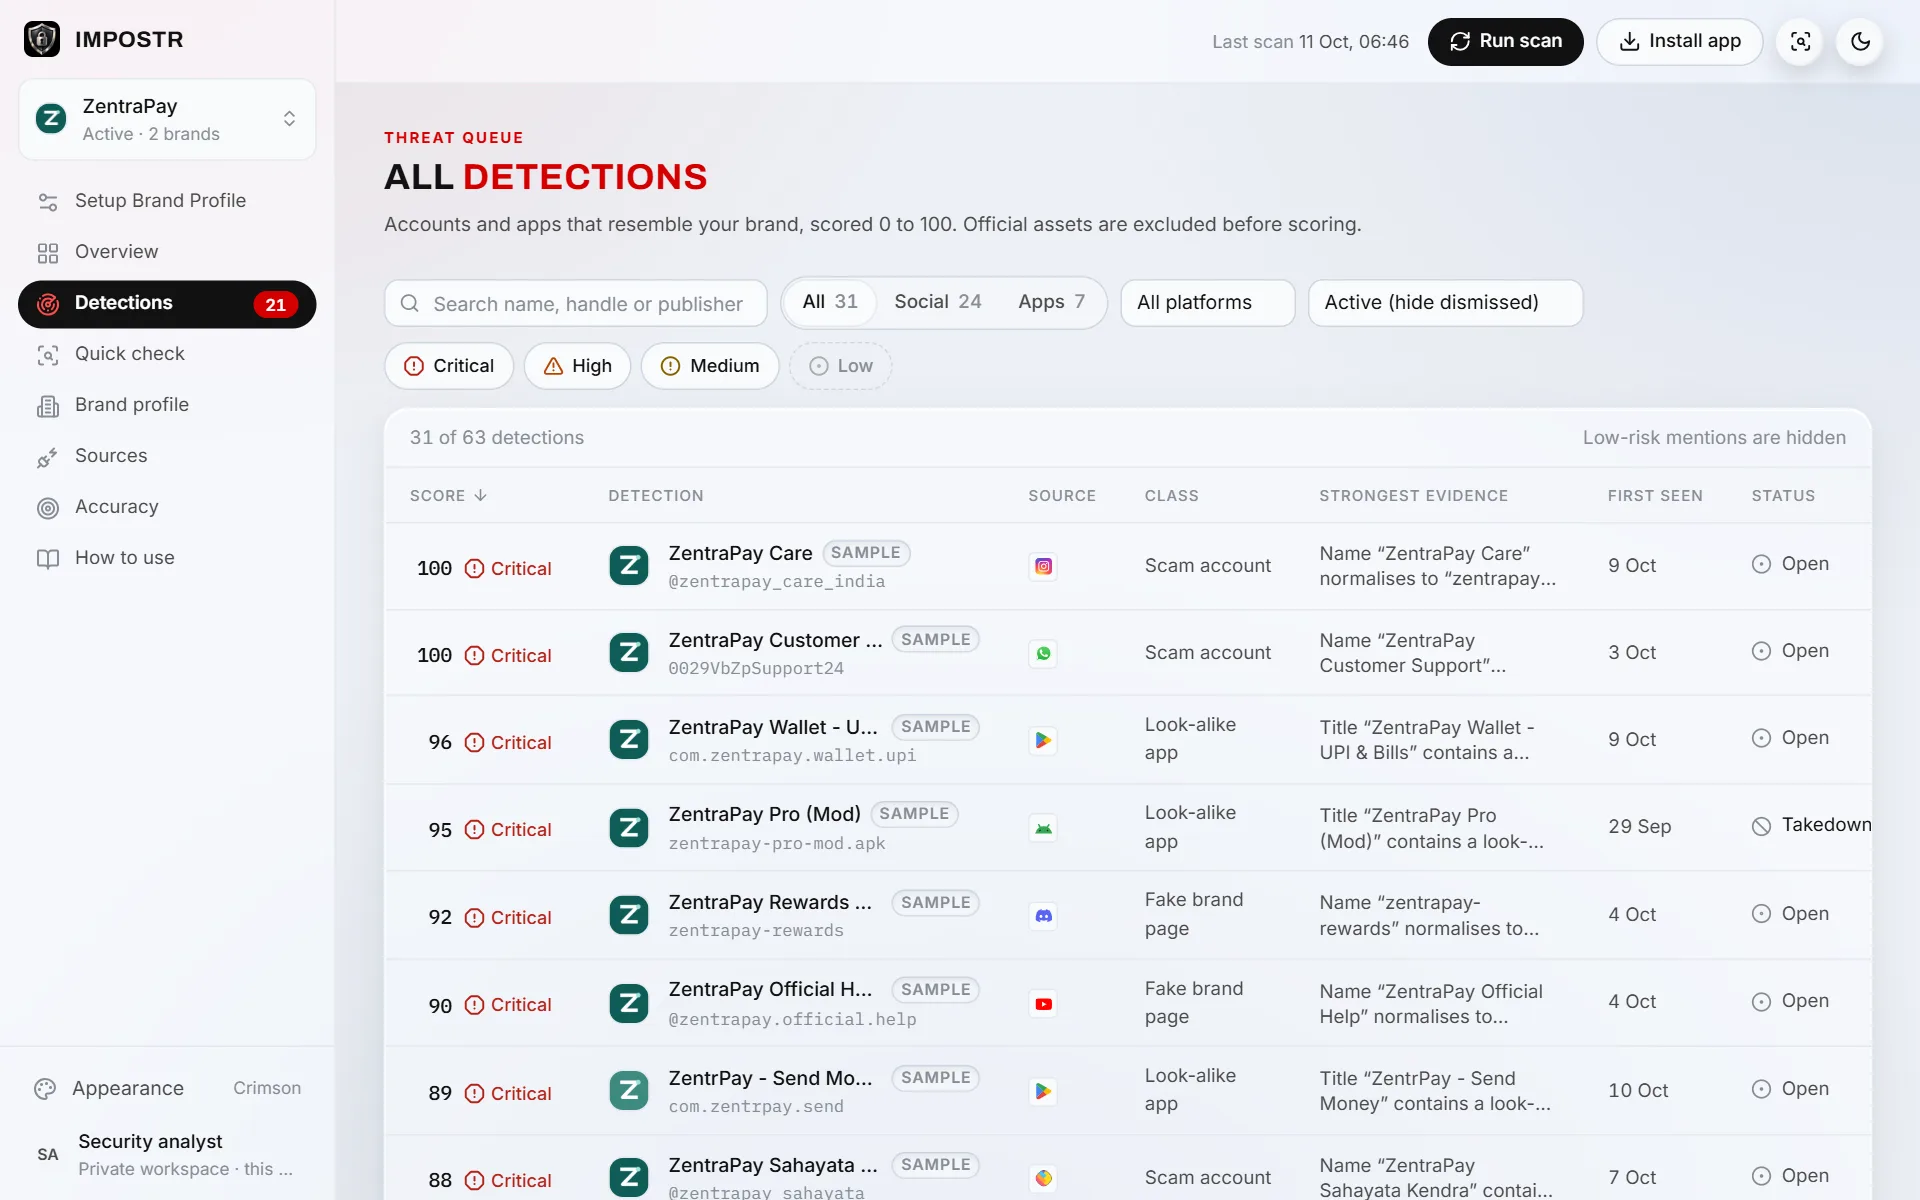
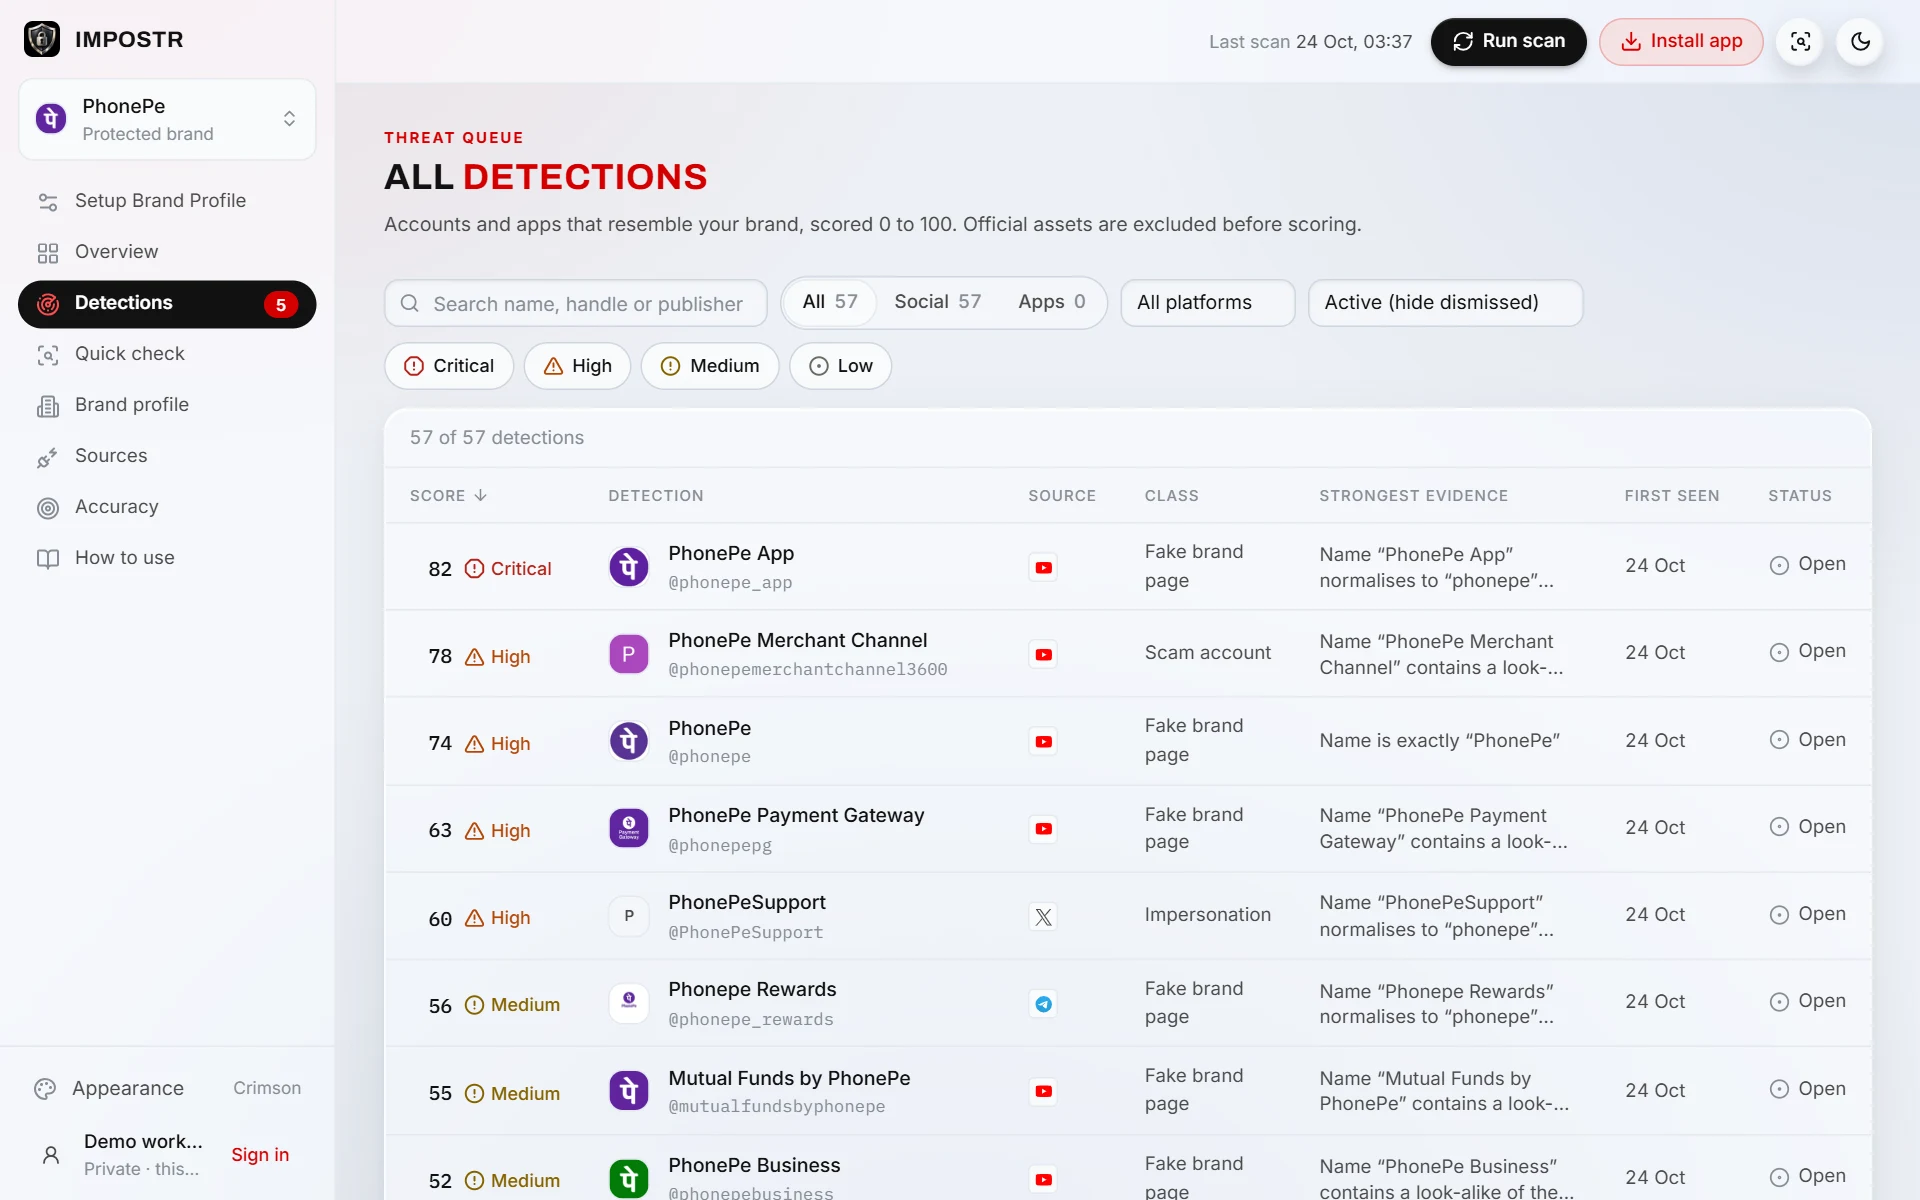
How to use: new screenshots, a takedown letter slide, current architecture
- All guide screenshots retaken from the current app (PhonePe, live data,
  17 sources), plus a new slide for the takedown letter.
- Overview, Detections, Setup and Quick check slides describe what the
  pages do now: the five severity cards, Last scan, Open links, all
  severities on by default, scans only when started.
- Architecture: Serper fallback and 12-hour shared results, scans on
  request, takedown letters, company accounts, twelve tables.

diff --git a/frontend/src/components/guide-slides.tsx b/frontend/src/components/guide-slides.tsx
@@ -9,6 +9,7 @@ import {
   ChevronLeft,
   ChevronRight,
   CircleHelp,
+  FileText,
   Gauge,
   LayoutGrid,
   ListChecks,
@@ -247,7 +248,8 @@ const SLIDES: Slide[] = [
     body: (
       <>
         <P>
-          Check the counts, then click <b>Save and run scan</b>. Everything you added goes on the allowlist, the scan starts, and you land on Overview.
+          Check the counts, then click <b>Save and run scan</b>. Everything you added goes on the allowlist and the scan starts; the button reads
+          Scanning until it finishes, then Overview opens with the results.
         </P>
         <P>The table on the right of every step explains the score bands.</P>
       </>
@@ -263,18 +265,18 @@ const SLIDES: Slide[] = [
       <>
         <Points
           items={[
-            ["Open detections", "Medium, High and Critical items still open, and how many candidates the last scan looked at."],
-            ["Critical · High", "Items scoring 80 or more (takedown recommended) and 60 to 79 (review today). The arrow on a card opens the detection list."],
-            ["Official assets flagged", "Should always be 0. It counts official assets that were wrongly scored; the allowlist size is shown below it."],
-            ["New detections", "Medium and above by the day they were first seen, over 14 days. Red is Critical, orange High, amber Medium. Hover a bar for its counts."],
+            ["Found · Critical · High · Medium · Low", "Everything the scans found, and the count at each severity: 80 or more (takedown recommended), 60 to 79 (review today), 40 to 59 (look-alike) and 39 or less (mentions, not flagged). The arrow on a card opens the detection list."],
+            ["Last scan", "Sources searched live, accounts and apps checked, official assets recognised, and official assets flagged, which should always be 0. Below it, how many results each source returned."],
+            ["New detections", "Every severity by the day it was first seen, over 14 days. Hover a bar for its counts."],
             ["By source", "The 8 sources with the most Critical and flagged items, with a health tick. A failing source always appears here."],
-            ["Needs attention", "Open Critical and High detections, highest score first. Click one to review it."],
             ["Official app notice", "If a scan finds an app verified as yours that is not in the profile yet, a notice offers Review and add."],
+            ["Needs attention", "Open Critical and High detections, highest score first. Click one to review it."],
+            ["All findings", "Every finding, with a filter for each severity. Open (blue, underlined) opens the real account or app on its platform in a new tab."],
           ]}
         />
         <P>
-          Click <b>Run scan</b> in the top bar at any time to search all sources again. While it runs the button reads Scanning and the page updates by
-          itself when it finishes.
+          A new workspace has no scan yet. Click <b>Run scan</b> in the top bar to search all sources; scans run only when you start one. While it runs
+          the button reads Scanning and the page updates by itself when it finishes.
         </P>
       </>
     ),
@@ -293,8 +295,9 @@ const SLIDES: Slide[] = [
             ["All · Social · Apps", "Accounts and pages, apps, or both. The counts follow the severity filter."],
             ["Platform", "One platform at a time, for example Instagram or Google Play."],
             ["Status", "Active hides items marked false positive or official. You can show one status, such as Confirmed."],
-            ["Severity chips", "Critical, High and Medium are on by default. Low-risk mentions (39 and below) are hidden; click Low to show them."],
-            ["Sort", "Click the Risk or First seen column heading to sort. Click a row to open it."],
+            ["Severity chips", "Critical, High, Medium and Low are all on by default. Click one to hide it, for example to see Critical only. Reset restores every filter."],
+            ["Sort", "Click the Score or First seen column heading to sort."],
+            ["Open a detection", "Click a row, for example its Status, to open the detection page. Open (blue, underlined) at the end of the row opens the real account or app instead."],
           ]}
         />
         <P>
@@ -308,14 +311,15 @@ const SLIDES: Slide[] = [
     section: "A detection, step by step",
     icon: ListChecks,
     title: "Why an item was flagged",
-    shots: [{ src: "detection-detail", alt: "Detection page for a scam account", caption: "A scam account: score, reasons and details" }],
+    shots: [{ src: "detection-detail", alt: "Detection page for a fake PhonePe channel", caption: "A fake brand page scored 82, Critical: score, reasons and details" }],
     body: (
       <Points
         items={[
           ["Header", "Name, handle, platform, the kind of threat (Scam account, Look-alike app, Fake brand page, Impersonation)."],
           ["Score", "0 to 100 with its severity and what to do: takedown recommended, review today, or look-alike."],
           ["Why this was flagged", "Every finding in plain words, such as a copied logo, a request for an OTP or a link to a look-alike domain."],
-          ["Compared with the official asset", "When there is an official counterpart, both are shown side by side."],
+          ["Evidence checks", "The identity checks that ran first, then the similarity of name, picture and description."],
+          ["Compared with the official asset", "When there is an official counterpart, both are shown side by side: picture, name, handle, bio."],
           ["Details, links, activity", "Followers or installs, first and last seen, the links in the profile, and every status change."],
         ]}
       />
@@ -347,7 +351,7 @@ const SLIDES: Slide[] = [
         head={["Button", "What it does"]}
         rows={[
           ["Confirm threat", "Marks it Confirmed. Request takedown then appears."],
-          ["Request takedown", "Marks it Takedown requested and opens a ready-made takedown letter with the evidence, a Copy letter button and a link to the platform's report form. Nothing is sent for you."],
+          ["Request takedown", "Marks it Takedown requested and opens the takedown letter (next slide). Nothing is sent for you."],
           ["Takedown letter", "Opens the letter again later. Each copy is recorded in the Activity log."],
           ["False positive", "Marks it as not a threat and lowers its score by 15 points. It leaves the Active view."],
           ["It's official", "Adds it to the brand's allowlist. It is never flagged again; Undo removes it."],
@@ -355,6 +359,28 @@ const SLIDES: Slide[] = [
           ["Evidence", "Downloads the full record (signals, reasons, checks, score) as a JSON file."],
         ]}
       />
+    ),
+  },
+  {
+    section: "A detection, step by step",
+    icon: FileText,
+    title: "The takedown letter",
+    shots: [{ src: "takedown-letter", alt: "Takedown letter for a fake YouTube channel", caption: "A takedown letter, filled in from the detection" }],
+    body: (
+      <>
+        <P>
+          Confirm threat, then Request takedown, and the letter opens. It is addressed to the platform and filled in from the detection: the fake&apos;s
+          name, handle and link, the brand&apos;s official account on that platform, the top reasons and the score.
+        </P>
+        <Points
+          items={[
+            ["Edit letter", "Edit any line in place: your name, title and contact details go in the bracketed fields. Reset template restores the original."],
+            ["Copy letter", "Copies the letter; each copy is recorded in the detection's Activity."],
+            ["Open report form", "The platform's own impersonation or trademark form (a help page where the platform has no form), in a new tab."],
+          ]}
+        />
+        <P>IMPOSTR never sends anything on its own: you paste the letter into the form and submit it, and attach the Evidence file if the form allows.</P>
+      </>
     ),
   },
   {
@@ -368,7 +394,7 @@ const SLIDES: Slide[] = [
         items={[
           <>Pick platforms, or leave All platforms selected (17 platforms).</>,
           <>
-            Type a brand name (<Code>PhonePe</Code>), a handle (<Code>z3ntra.pay_official</Code>) or paste an official link (
+            Type a brand name (<Code>PhonePe</Code>), a handle (<Code>ph0nepe_support</Code>) or paste an official link (
             <Code>t.me/phonepe_rewards</Code>, a Play Store or App Store URL), then press Enter. The Try chips fill in examples.
           </>,
           <>Results compare against the registered brand the query matches. Nothing is saved to Detections.</>,

diff --git a/frontend/src/components/architecture.tsx b/frontend/src/components/architecture.tsx
@@ -85,8 +85,9 @@ function Diagram() {
             <b className="text-ink">Social, official APIs:</b> Telegram (public t.me pages), YouTube Data API
           </Li>
           <Li>
-            <b className="text-ink">Social, web search:</b> Instagram, Facebook, X, LinkedIn, Threads, Pinterest, Quora, Snapchat, ShareChat, WhatsApp, Moj and Josh public pages, through the Brave Search API; Discord invites checked with Discord&apos;s invite lookup
+            <b className="text-ink">Social, web search:</b> Instagram, Facebook, X, LinkedIn, Threads, Pinterest, Quora, Snapchat, ShareChat, WhatsApp, Moj and Josh public pages, through the Brave Search API, with Serper (Google results) taking over automatically when Brave fails or runs out of credit; Discord invites checked with Discord&apos;s invite lookup
           </Li>
+          <Li>Web search and YouTube results are shared by every workspace for 12 hours, so repeated searches do not use up API credit</Li>
           <Li>
             <b className="text-ink">Not connected:</b> a source whose API key is not set is shown as not connected, never filled with made-up results. No sample data anywhere.
           </Li>
@@ -108,7 +109,7 @@ function Diagram() {
       <div className="grid items-stretch gap-0 lg:grid-cols-[minmax(0,0.9fr)_auto_minmax(0,1.05fr)_auto_minmax(0,1.35fr)_auto_minmax(0,0.85fr)]">
         <Box tone="ui" icon={ScanSearch} kicker="Step 1" title="Collect">
           <Li>
-            <b className="text-ink">Scan:</b> every source, results saved
+            <b className="text-ink">Scan:</b> every source, results saved; runs when the user presses Run scan (or Save and run scan)
           </Li>
           <Li>
             <b className="text-ink">Quick check:</b> chosen platforms, results shown and not saved
@@ -162,13 +163,14 @@ function Diagram() {
       <div className="grid gap-3 lg:grid-cols-2">
         <Box tone="ui" icon={MonitorSmartphone} kicker="Interface" title="What the analyst sees">
           <Li>Overview, Detections, Quick check, Brand profile, Sources and Accuracy, all read from storage</Li>
-          <Li>Actions (confirm, takedown, false positive, it&apos;s official) are written back to the database</Li>
-          <Li>Private workspace per browser: brands and results are visible only to the browser that created them</Li>
+          <Li>Actions (confirm, takedown, false positive, it&apos;s official) are written back to the database; a takedown opens a ready-made letter and the platform&apos;s report form, and nothing is sent automatically</Li>
+          <Li>Private workspace per visitor: Continue as demo, or a company account (work email only); brands and results are visible only there</Li>
         </Box>
-        <Box tone="store" icon={Database} kicker="Storage · MySQL / MariaDB" title="Nine tables">
+        <Box tone="store" icon={Database} kicker="Storage · MySQL / MariaDB" title="Twelve tables">
           <Li>brands, official_assets, publishers: the profile and allowlist</Li>
           <Li>detections, detection_events: scored threats and every status change</Li>
           <Li>scans, sources, source_cache: scan history, source health, last good live results</Li>
+          <Li>users, sessions: company accounts; app_meta: one-time updates</Li>
           <Li>media_files: logos and icons</Li>
         </Box>
       </div>
@@ -246,10 +248,13 @@ export function Architecture() {
               ["official_assets", "The allowlist: official accounts and apps, with store validation (developer ID, store title, icon, when it was checked)."],
               ["publishers", "Official developer names and IDs used to recognise official apps."],
               ["sources", "The 17 sources with their mode, state, health, latency and items in the last scan."],
-              ["source_cache", "The last good results of each live source, used when it is down."],
+              ["source_cache", "The last good results of each live source, used when it is down, and web-search and YouTube results shared for 12 hours."],
               ["scans", "Each scan: candidates seen, official assets skipped, official assets flagged, new detections, per-source status."],
               ["detections", "Scored look-alikes: signals, reasons, evidence checks, score, severity and status."],
-              ["detection_events", "Every status change: confirmed, takedown requested, false positive, official, reopened."],
+              ["detection_events", "Every status change (confirmed, takedown requested, false positive, official, reopened) and every takedown letter copied."],
+              ["users", "Company accounts: work email, name and a salted password hash. Each account owns one private workspace."],
+              ["sessions", "Sign-in sessions, stored only as a hash of the session token, for 30 days."],
+              ["app_meta", "Markers for one-time data updates, so each runs only once."],
               ["media_files", "Brand logos and official app icons saved during store validation."],
             ]}
           />

diff --git a/frontend/src/components/project-summary.tsx b/frontend/src/components/project-summary.tsx
@@ -29,7 +29,7 @@ export function ProjectSummary() {
       <h2 className="text-[16px] font-semibold text-ink">Start here</h2>
       <ul className="list-disc space-y-1 pl-5">
         <li>
-          <A href={`${SITE}/how-to-use`}>How to use</A>: 5-minute demo video, 25 guide slides with screenshots, and the architecture diagram.
+          <A href={`${SITE}/how-to-use`}>How to use</A>: 5-minute demo video, 26 guide slides with screenshots, and the architecture diagram.
         </li>
         <li>
           Demo video file: <A href={`${SITE}/help/impostr-demo.mp4`}>{`${SITE}/help/impostr-demo.mp4`}</A>
